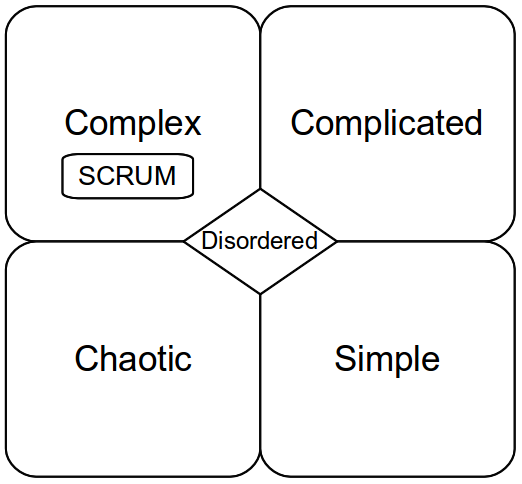
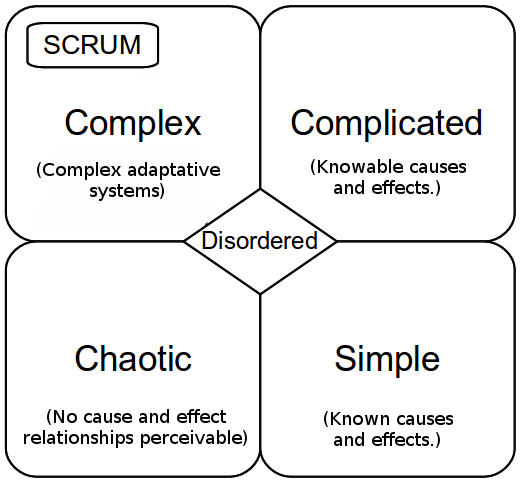
Edit Cynefin image

diff --git a/content/introduction.tex b/content/introduction.tex
@@ -15,11 +15,11 @@ Hay quienes consideran que Scrum no es una metodología, entre otras cosas porqu
 sino que dice el qué hacer. Sin embargo, hay autores y guías que tratan a Scrum como metodología (por ejemplo la guía SBOK \footnote{\cite{SBOK-2013}, SCRUMstudy (2015).}, la ScrumAlliance \footnote{"Scrum is the leading agile development methodology", Learn About Scrum, Scrumalliance.org, 2015.} y Jeff Sutherland\footnote{\cite{Jeff-Sutherland-2016}}). De hecho en el informe original de Ken Schwaber se habla de metodología \cite{Ken-Schwaber-1995}. En consecuencia, se puede encontrar en numerosa bibliografía que el marco de trabajo Scrum puede ser denominado Metodología de Desarrollo Scrum o Metodología de Gestión de Proyectos Scrum. 
 En el primer caso puede deberse a que se puede considerar una metodología como un proceso de desarrollo iterativo e incremental de productos \cite{Ken-Schwaber-1995}. Y en el segundo caso porque se puede considerar que es una alternativa a la gestión clásica de proyectos propuesta en marcos de trabajo como la guía de Gestión de Proyectos PMI. En este último sentido podemos recordar la definición original de Ken Schwaber: "Scrum es una metodología de gestión, mejora y mantenimiento de un sistema existente o prototipo de producción" \cite{Ken-Schwaber-1995}.
  
-Por otro lado, considerando que Scrum define roles, artefactos, actividades, flujo del ciclo de actividades Scrum\footnote{\cite{Agile-Atlas-2012}}, reglas y algunas sugerencias de implementación como, además, al definir el flujo del ciclo de Scrum o flujo de trabajo, define parcialmente un cómo, en el cual se incluye una secuencia básica de cosas que hacer; por eso, y sin ser puristas, se puede considerar en forma práctica como una forma de metodología de trabajo y de gestión. O sea que puede funcionar como una metodología a alto nivel o plataforma de trabajo sobre la cual pueden funcionar otras metodologías, más específicas de producción y desarrollo, y otras técnicas y procesos. Por este motivo, puede ser adaptado a diversas empresas y organizaciones que trabajen con metodologías diferentes pero compatibles con los lineamientos de Scrum (sus valores y principios) y del Movimiento Ágil (filosofía ágil). Se puede usar Scrum y a su vez utilizar técnicas de otras metodologías para implementar sus actividades y sugerencias. O sea que cuando se usa este marco se hace una aproximación empleando diversas técnicas y, posiblemente, otras metodologías.
+Por otro lado, considerando que Scrum define roles, artefactos, actividades, flujo del ciclo de actividades Scrum\footnote{\cite{Agile-Atlas-2012}}, reglas y algunas sugerencias de implementación como, además, al definir el flujo del ciclo de Scrum o flujo de trabajo, define parcialmente un cómo, en el cual se incluye una secuencia básica de cosas que hacer; por eso, y sin ser puristas, se puede considerar en forma práctica como una forma de metodología de trabajo y de gestión. O sea que puede funcionar como una metodología a alto nivel o plataforma de trabajo sobre la cual pueden funcionar otras metodologías, más específicas de producción y desarrollo, y otras técnicas y procesos. Por este motivo, puede ser adaptado a diversas empresas y organizaciones que trabajen con metodologías diferentes pero compatibles con los lineamientos de Scrum (sus valores y principios) y del Movimiento Ágil (filosofía ágil). Se puede usar Scrum y a su vez utilizar técnicas de otras metodologías para implementar sus actividades y sugerencias. O sea que cuando se usa este marco se hace una aproximación empleando diversas técnicas y, posiblemente, otras metodologías. Por eso, es recomendable que se lo denomine "marco de trabajo".
 
 \subsection{Ámbito de aplicación}
 
-Relacionado a su ámbito de aplicación, podemos analizar nuestro equipo o nuestra organización bajo el modelo Cynefin\footnote{Cynefin: Snowden (1999), "Liberating Knowledge"; Snowden (2003). "The new dynamics of strategy: Sense-making in a complex and complicated world"}. Con Cynefin podemos evaluar los múltiples factores en nuestro entorno y nuestra experiencia y determinar bajo qué dominio nos encontramos. Pues, Scrum no es un marco de trabajo orientado a implementarse en cualquier dominio y contexto. Scrum está pensado para proyectos bajo "dominios complejos" [Snowden 2007] (ver fig. \ref{fig:MarcoCynefinModel}) donde existe un grado alto de incertidumbre y baja predictibilidad. O sea que es útil en ámbitos con requisitos inciertos y riesgos técnicos altos. Nos permite encontrar prácticas emergentes en dominios complejos, como por ejemplo en la gestión de proyectos de innovación \cite{Martin-Alaimo-2014} y desarrollo de productos con requisito inciertos y cambiantes. Es decir, está orientado a contextos que necesitan niveles altos de creatividad, innovación, interacción y comunicación. Por este motivo, es bastante empleado en la industria de software, ya que en la misma existen contextos específicos de alta complejidad e incertidumbre con necesidad de creatividad e innovación. Pero también se utiliza en otras industrias con dominios de problemas de complejidad semejante. Por ejemplo ha sido empleado en: educación, organizaciones de campañas publicitarias, industria de productos de innovación, empresas de editoriales de libros, etcétera.
+Relacionado a su ámbito de aplicación, podemos analizar nuestro equipo o nuestra organización bajo el modelo Cynefin\footnote{Cynefin: Snowden (1999), "Liberating Knowledge"; Snowden (2003). "The new dynamics of strategy: Sense-making in a complex and complicated world"}. Con Cynefin podemos evaluar los múltiples factores en nuestro entorno y nuestra experiencia y determinar bajo qué dominio nos encontramos. Pues, Scrum no es un marco de trabajo orientado a implementarse en cualquier dominio y contexto. Scrum está pensado especialmente para proyectos bajo "dominios complejos" [Snowden 2007] (ver fig. \ref{fig:MarcoCynefinModel}) donde existe un grado alto de incertidumbre y baja predictibilidad y para sistemas adaptativos complejos, donde mismas causas pueden generar diferentes consecuencias o diferentes causas pueden generar mismas consecuencias. O sea que es útil en ámbitos con requisitos inciertos y riesgos técnicos altos. Nos permite encontrar prácticas emergentes en dominios complejos, como por ejemplo en la gestión de proyectos de innovación \cite{Martin-Alaimo-2014} y desarrollo de productos con requisito inciertos y cambiantes. Es decir, está orientado a contextos que necesitan niveles altos de creatividad, innovación, interacción y comunicación. Por este motivo, es bastante empleado en la industria de software, ya que en la misma existen contextos específicos de alta complejidad e incertidumbre con necesidad de creatividad e innovación. Pero también se utiliza en otras industrias con dominios de problemas de complejidad semejante. Por ejemplo ha sido empleado en: educación, organizaciones de campañas publicitarias, industria de productos de innovación, empresas de editoriales de libros, etcétera.
 
 \begin{figure}[h]
   \centering
